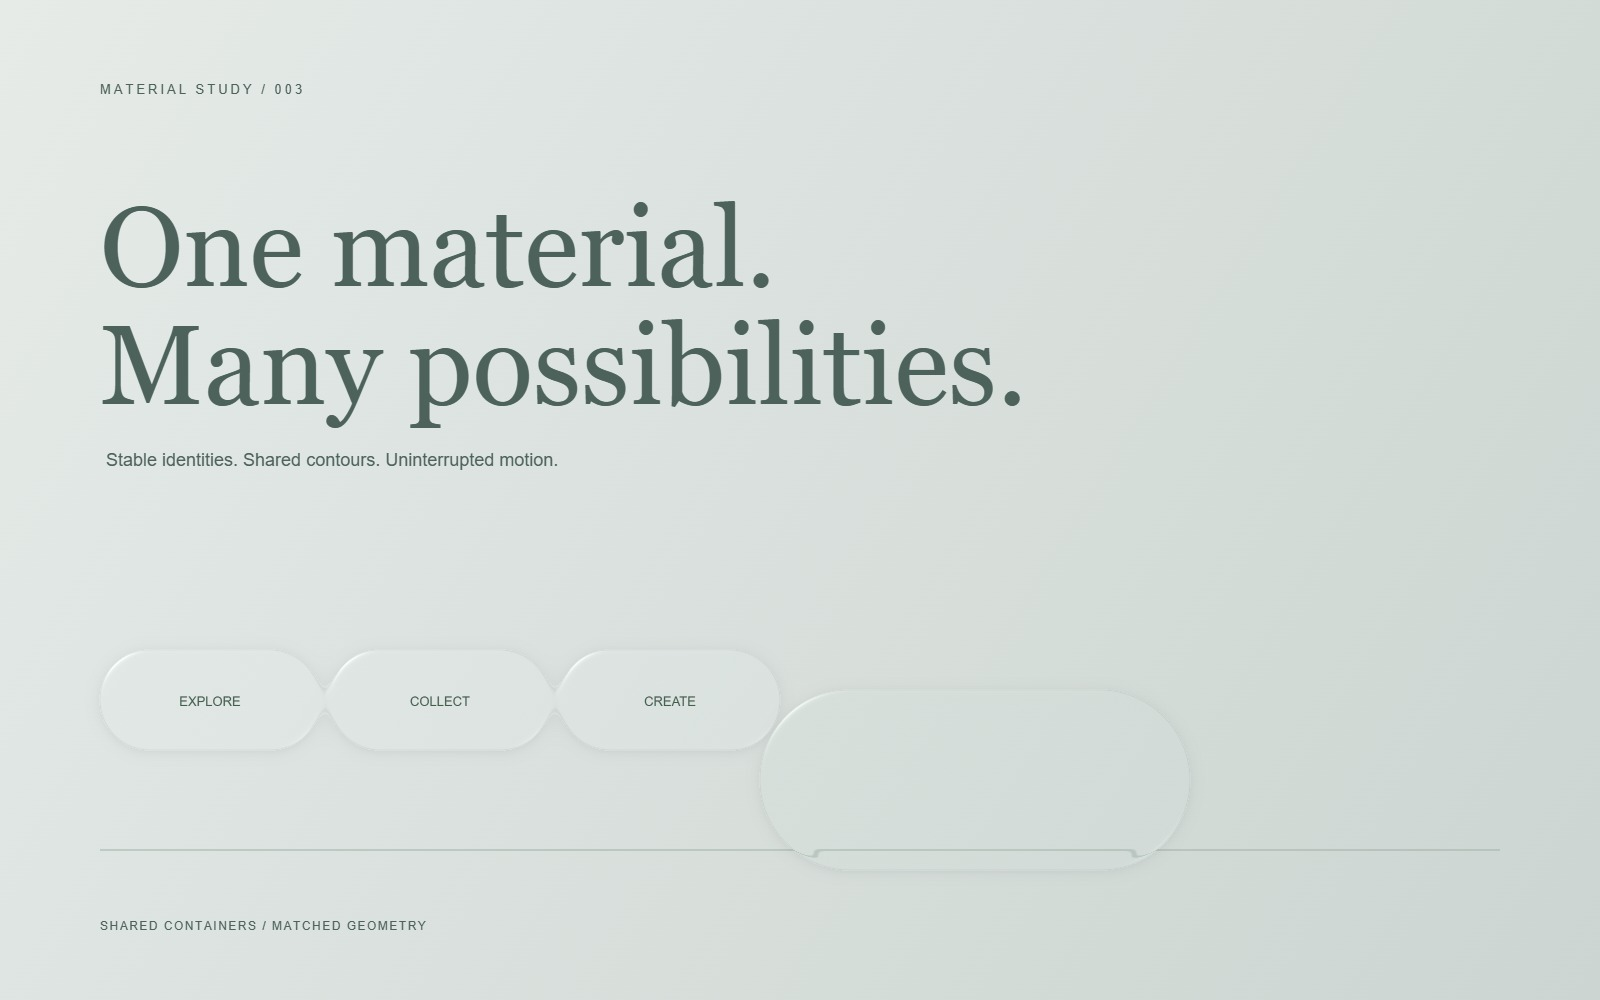
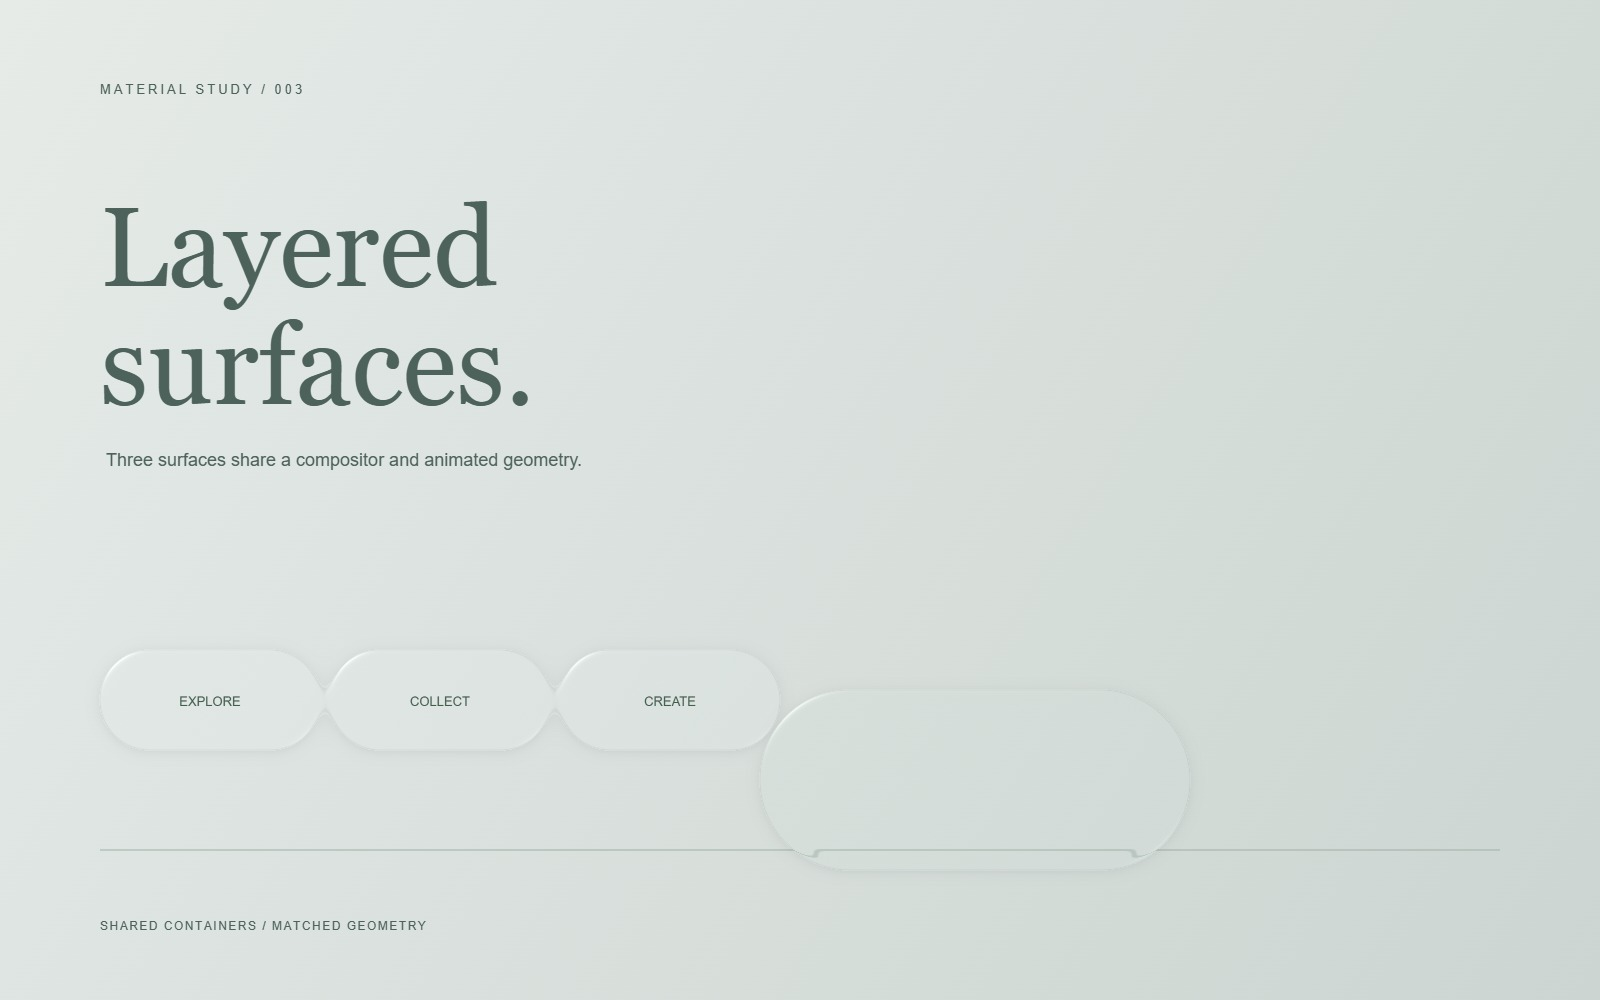
Await completed GPU and motion states and simplify demonstration copy

Changed region(s): [[0.0625, 0.186, 0.6562, 0.465]]

diff --git a/demo/markup.ts b/demo/markup.ts
@@ -14,7 +14,7 @@ export function markup(icon:(name:string,size?:number)=>string,slider:(id:string
       <aside class="panel controls">
         <div class="panel-heading"><h2>Material</h2><button class="icon-button" id="reset" aria-label="Reset material">${icon("reset",16)}</button></div>
         <div class="segmented" aria-label="Material variant"><button data-variant="regular" class="selected" aria-pressed="true">Regular</button><button data-variant="clear" aria-pressed="false">Clear</button></div>
-        <p class="control-note" id="variant-note">Adaptive, softly scattered.<br>Made for controls and navigation.</p>
+        <p class="control-note" id="variant-note">Adaptive contrast and scattering.<br>Regular material for controls.</p>
         <div class="rule"></div><div class="subheading">OPTICS <span>GPU MATERIAL</span></div>
         ${slider("refraction","Refraction",0,35,13,1,"px")}
         ${slider("thickness","Optical depth",2,40,18,1,"px")}
@@ -59,7 +59,7 @@ export function markup(icon:(name:string,size?:number)=>string,slider:(id:string
       </aside>
     </section>
     <div class="lab-footnote"><span>AN INDEPENDENT, PORTABLE MATERIAL IMPLEMENTATION</span><span>Optical behavior inspired by Apple’s Liquid Glass. <a href="#integration">See scope & limitations ${icon("arrow",11)}</a></span></div>
-    <section class="anatomy" id="anatomy"><div><div class="eyebrow">MORE THAN TRANSPARENCY</div><h2>It’s a material.<br>Make it behave like one.</h2><p>The image beneath remains part of the interface. Curved edges bend it, scattered light softens it, and spring motion keeps the surface connected to your hand.</p></div><div class="anatomy-cards"><article><span>01 / OPTICS</span><h3>Light has a path.</h3><p>A signed distance field defines the boundary. Its gradient drives lensing, directional reflections, and subtle spectral separation.</p></article><article><span>02 / DYNAMICS</span><h3>Motion has weight.</h3><p>Analytically integrated springs preserve velocity as targets change. Neighboring forms merge into a shared optical surface.</p></article><article><span>03 / CONTEXT</span><h3>Content comes first.</h3><p>Regular adapts to the backdrop. Clear preserves rich media. Contrast, transparency, and reduced motion remain explicit controls.</p></article></div></section>
+    <section class="anatomy" id="anatomy"><div><div class="eyebrow">RENDERING MODEL</div><h2>Material and motion.</h2><p>The compositor combines refraction, cached scattering and spring motion over application-provided pixels.</p></div><div class="anatomy-cards"><article><span>01 / OPTICS</span><h3>Optical boundary</h3><p>A signed distance field defines the boundary. Its gradient drives lensing, directional reflections, and subtle spectral separation.</p></article><article><span>02 / DYNAMICS</span><h3>Spring motion</h3><p>Analytically integrated springs preserve velocity as targets change. Neighboring forms merge into a shared optical surface.</p></article><article><span>03 / CONTEXT</span><h3>Contrast and content</h3><p>Regular adapts to the backdrop. Clear preserves rich media. Contrast, transparency, and reduced motion remain explicit controls.</p></article></div></section>
     <section class="integration" id="integration"><div><div class="eyebrow">FOR DEVELOPERS</div><h2>Bring your own interface.</h2><p>Typed, framework-independent, and rendered on the GPU. Use the material in a web app, Electron, WebView2, or Android WebView.</p><div class="install"><code>npm install ./liquid-glass-material-${version}.tgz</code><button id="copy-install" class="icon-button" aria-label="Copy installation command">${icon("copy",17)}</button></div><p class="scope-note"><a href="./examples/dom/index.html">Try live HTML behind glass ↗</a><br>Requires an explicit canvas, image, or video backdrop. Arbitrary DOM and native windows cannot be refracted automatically. Native hosts need a WebView integration. This is an approximation; Apple’s shaders and exact constants are private.</p></div><div class="code-card"><div><span class="code-dot"></span><span>your-app.ts</span><button id="copy-code" class="icon-button" aria-label="Copy integration code">${icon("copy",16)}</button></div><pre><code id="code-example"></code></pre></div></section>
   </main><footer><a class="brand" href="#">${icon("glass",18)} liquidglass</a><span>WebGL 2 material and interaction library.</span><span class="mono">MIT LICENSE / v${version}</span></footer><div id="toast" role="status" aria-live="polite"></div>
 `;}

diff --git a/examples/readability/index.html b/examples/readability/index.html
@@ -1,1 +1,1 @@
-<!doctype html><html lang="en"><head><meta charset="utf-8"><meta name="viewport" content="width=device-width,initial-scale=1"><title>Adaptive material · Liquid Glass</title><link rel="stylesheet" href="./style.css"></head><body><main><nav><a href="../../">Liquid Glass</a><a href="../../docs/readability.html">Developer guide ↗</a></nav><p class="eyebrow">MATERIAL RESPONSE / 004</p><h1>Light changes.<br>The material responds.</h1><p class="intro">Foreground contrast follows the completed glass beneath it. Edge light, scattering and size response remain independently programmable.</p><section class="study" aria-label="Interactive material studies"><canvas aria-hidden="true"></canvas><div class="headings"><span>01 / Rear-layer content</span><span>02 / Clear on white</span><span>03 / Clear, dimmed 35%</span></div><button class="ink" id="rear-ink">Composited content</button><span class="ink" id="clear-ink">Clear perspective</span><span class="ink" id="dimmed-ink">A softer backdrop</span><button class="ink panel" id="panel-ink" aria-expanded="false">Expand the surface ↗</button><span class="annotation">One surface. Continuous geometry and material response.</span></section><div class="metrics" aria-live="polite"><output id="rear-result">Sampling rear content…</output><output id="clear-result">Sampling Clear…</output><output id="dimmed-result">Sampling dimmed Clear…</output></div><section class="controls"><button id="swap">Switch rear content</button><label><input type="checkbox" id="adaptive" checked> Adapt material to size</label><label>Edge light <input id="intensity" type="range" min="0" max="1.5" step="0.05" value="0.55"></label><label>Edge width <input id="width" type="range" min="0.2" max="6" step="0.1" value="1.4"></label></section><pre id="response"></pre><p class="note">Ratios conservatively bound the last captured foreground region before this surface's own text. Later frames, custom ink and uncaptured content require separate checks. Clear adjusts ink but never adds Regular's neutral protection.</p></main><script type="module" src="./main.ts"></script></body></html>
+<!doctype html><html lang="en"><head><meta charset="utf-8"><meta name="viewport" content="width=device-width,initial-scale=1"><title>Adaptive material · Liquid Glass</title><link rel="stylesheet" href="./style.css"></head><body><main><nav><a href="../../">Liquid Glass</a><a href="../../docs/readability.html">Developer guide ↗</a></nav><p class="eyebrow">MATERIAL RESPONSE / 004</p><h1>Contrast and<br>material response.</h1><p class="intro">Foreground contrast follows the completed glass beneath it. Edge light, scattering and size response remain independently programmable.</p><section class="study" aria-label="Interactive material studies"><canvas aria-hidden="true"></canvas><div class="headings"><span>01 / Rear-layer content</span><span>02 / Clear on white</span><span>03 / Clear, dimmed 35%</span></div><button class="ink" id="rear-ink">Composited content</button><span class="ink" id="clear-ink">Clear material</span><span class="ink" id="dimmed-ink">Clear with dimming</span><button class="ink panel" id="panel-ink" aria-expanded="false">Expand the surface ↗</button><span class="annotation">One surface. Continuous geometry and material response.</span></section><div class="metrics" aria-live="polite"><output id="rear-result">Sampling rear content…</output><output id="clear-result">Sampling Clear…</output><output id="dimmed-result">Sampling dimmed Clear…</output></div><section class="controls"><button id="swap">Switch rear content</button><label><input type="checkbox" id="adaptive" checked> Adapt material to size</label><label>Edge light <input id="intensity" type="range" min="0" max="1.5" step="0.05" value="0.55"></label><label>Edge width <input id="width" type="range" min="0.2" max="6" step="0.1" value="1.4"></label></section><pre id="response"></pre><p class="note">Ratios conservatively bound the last captured foreground region before this surface's own text. Later frames, custom ink and uncaptured content require separate checks. Clear adjusts ink but never adds Regular's neutral protection.</p></main><script type="module" src="./main.ts"></script></body></html>

diff --git a/examples/gallery/main.ts b/examples/gallery/main.ts
@@ -17,8 +17,8 @@ function paint(){
     let seed=7;for(let i=0;i<40000;i++){seed=(seed*16807)%2147483647;const x=seed%w;seed=(seed*16807)%2147483647;const y=seed%h;c.fillStyle=i%2?'#7e755207':'#ffffff25';c.fillRect(x,y,1,1);}
     c.fillStyle='#666f65';font(c,13,'Arial');tracked(c,'MATERIAL STUDY / 001',100,94);tracked(c,'LIGHT · TYPE · PAPER',1190,94,2);
     c.strokeStyle='#717c5a45';c.beginPath();c.moveTo(100,122);c.lineTo(1500,122);c.stroke();
-    c.fillStyle='#243d36';font(c,108);c.fillText('Refraction,',100,285);c.fillText('in plain sight.',100,395);
-    c.fillStyle='#939886';font(c,17,'Arial');c.fillText('A transparent material with a life of its own.',104,448);
+    c.fillStyle='#243d36';font(c,108);c.fillText('Glass over',100,285);c.fillText('literature.',100,395);
+    c.fillStyle='#939886';font(c,17,'Arial');c.fillText('Clear material over a page from Pride and Prejudice.',104,448);
     c.fillStyle='#294237';font(c,29);const text=['It is a truth universally acknowledged, that a single man in','possession of a good fortune, must be in want of a wife.','However little known the feelings or views of such a man','may be on his first entering a neighbourhood, this truth','is so well fixed in the minds of the surrounding families,','that he is considered the rightful property of some one','or other of their daughters.'];
     text.forEach((line,i)=>c.fillText(line,102,566+i*43));
     c.fillStyle='#7a816f';font(c,12,'Arial');tracked(c,'JANE AUSTEN — PRIDE AND PREJUDICE, 1813',102,930,1.4);
@@ -26,14 +26,14 @@ function paint(){
   }else if(scene==='spectrum'){
     const g=c.createLinearGradient(0,0,w,h);g.addColorStop(0,'#0f2137');g.addColorStop(.48,'#214753');g.addColorStop(1,'#a6b0a0');c.fillStyle=g;c.fillRect(0,0,w,h);
     for(const [x,y,r,color]of [[1250,250,480,'#ffc47c'],[430,710,600,'#589bab'],[1400,880,480,'#7799e9']]as const){const glow=c.createRadialGradient(x,y,0,x,y,r);glow.addColorStop(0,color+'b0');glow.addColorStop(1,color+'00');c.fillStyle=glow;c.fillRect(0,0,w,h);}
-    c.fillStyle='#e9f1e9';font(c,13,'Arial');tracked(c,'MATERIAL STUDY / 002',100,94);font(c,128);c.fillText('Light has',100,300);c.fillText('a softer side.',100,432);
-    c.fillStyle='#ffffffcc';font(c,18,'Arial');c.fillText('Refraction. Reflection. A continuous response.',106,510);
+    c.fillStyle='#e9f1e9';font(c,13,'Arial');tracked(c,'MATERIAL STUDY / 002',100,94);font(c,128);c.fillText('Chromatic',100,300);c.fillText('transmission.',100,432);
+    c.fillStyle='#ffffffcc';font(c,18,'Arial');c.fillText('An SVG contour over curved linework.',106,510);
     c.strokeStyle='#e9f1e955';c.lineWidth=1;for(let i=0;i<21;i++){c.beginPath();c.moveTo(100,620+i*9);c.bezierCurveTo(500,560+i*13,850,910-i*9,1500,700+i*8);c.stroke();}
     font(c,12,'Arial');c.fillStyle='#e9f1e9';tracked(c,'SPECTRAL INDICES / PROGRAMMABLE OPTICS',100,930,1.5);
   }else{
     const g=c.createLinearGradient(0,0,w,h);g.addColorStop(0,'#e6ebe8');g.addColorStop(1,'#ccd5d1');c.fillStyle=g;c.fillRect(0,0,w,h);
-    c.fillStyle='#4c625a';font(c,13,'Arial');tracked(c,'MATERIAL STUDY / 003',100,94);font(c,112);c.fillText('One material.',100,286);c.fillText('Many possibilities.',100,404);
-    font(c,18,'Arial');c.fillText('Stable identities. Shared contours. Uninterrupted motion.',106,466);
+    c.fillStyle='#4c625a';font(c,13,'Arial');tracked(c,'MATERIAL STUDY / 003',100,94);font(c,112);c.fillText('Layered',100,286);c.fillText('surfaces.',100,404);
+    font(c,18,'Arial');c.fillText('Three surfaces share a compositor and animated geometry.',106,466);
 
     c.strokeStyle='#a1afa7';c.beginPath();c.moveTo(100,850);c.lineTo(1500,850);c.stroke();font(c,12,'Arial');tracked(c,'SHARED CONTAINERS / MATCHED GEOMETRY',100,930,1.5);
   }

diff --git a/tests/animation.spec.ts b/tests/animation.spec.ts
@@ -88,6 +88,7 @@ test('navigation lens lifts during a real pointer drag and snaps to its selected
   await page.mouse.move(from!.x+from!.width/2,from!.y+from!.height/2);await page.mouse.down();await page.mouse.move(to!.x+to!.width/2,to!.y+to!.height/2,{steps:10});
   await expect.poll(()=>page.evaluate(()=>(window as any).motionStudio.renderer.getState('studio-navigation').rect.height)).toBeGreaterThan(base*1.4);
   await page.mouse.up();await expect(settings).toHaveAttribute('aria-pressed','true');
+  await page.evaluate(()=>(window as any).motionStudio.renderer.whenSettled('studio-navigation'));
   await expect.poll(()=>page.evaluate(()=>(window as any).motionStudio.renderer.getState('studio-navigation').rect.height)).toBeCloseTo(base,0);
 });
 

diff --git a/tests/readability.spec.ts b/tests/readability.spec.ts
@@ -9,6 +9,7 @@ test('readability study responds to rear content, resizing and independent edge 
   await page.waitForFunction(()=>(window as any).glassReadability?.front.state.contrast.source==='composited');
   await expect(page.locator('#rear-result')).toContainText('dark ink');
   await page.getByRole('button',{name:'Switch rear content'}).click();
+  await page.evaluate(()=>(window as any).glassReadability.front.contrastReady());
   await expect(page.locator('#rear-result')).toContainText('light ink');
   await page.getByRole('button',{name:'Expand the surface'}).click();
   await page.waitForFunction(()=>(window as any).glassReadability.panel.rect.width>700);

diff --git a/docs/validation.md b/docs/validation.md
@@ -38,4 +38,6 @@ Tests run with one worker. `NODE_OPTIONS=--max-old-space-size=192 --max-semi-spa
 
 The v0.10 control regressions verify dense versus refractive switch states, one change per user commit, programmatic updates without synthetic events, capture failure/cancellation, RTL, disabled state, native range semantics, minification, independent content opacity, narrow layouts, dark backgrounds and idle cleanup.
 
-Install the browser revision requested by the locked Playwright version, or explicitly set CHROMIUM_PATH. Do not silently select an arbitrary older cached revision. An older local headless-shell/software run failed the rear-content ink-change scene (76 passed, one failed, one unsupported DOM check skipped); the same scene passed in Edge with both D3D11 and SwiftShader, and the full Edge/D3D11 run passed all 78 checks. This difference is not evidence of universal software-driver compatibility.
+Install the browser revision requested by the locked Playwright version, or explicitly set `CHROMIUM_PATH`. Do not silently select an arbitrary older cached revision. Contrast tests await a fresh `contrastReady()` revision after source changes; motion checks await spring settlement before comparing the final geometry. Fixed delays do not establish either condition on a slow software renderer.
+
+The compatibility matrix exercises three checks in WebKit and Firefox: glyph/layer composition with zero GPU errors, switch keyboard/accessibility behavior and mobile documentation navigation. Linux Firefox runs headed under Xvfb because its headless graphics path did not initialize these scenes. This is engine coverage for the listed flows, not certification of every browser/OS combination or native Safari equivalence.

diff --git a/README.md b/README.md
@@ -14,7 +14,7 @@ TypeScript · WebGL 2 · Zero runtime dependencies · MIT
 
 A shared GPU compositor for refractive surfaces, layered content and fluid controls. Build for the web, Electron, Windows WebView2 and Android WebView. Configure the material or replace its GLSL and physics entirely.
 
-## More than a blur
+## Capabilities
 
 - **Optics:** independent thickness and refraction reach, glass/outside indices, magnification, Cauchy/Abbe RGB dispersion and Beer–Lambert absorption.
 - **Finish:** Regular, Clear and Identity; composited contrast, tint, size response, scattering, directional light and independent environment reflection. Raised bevel is off by default.
